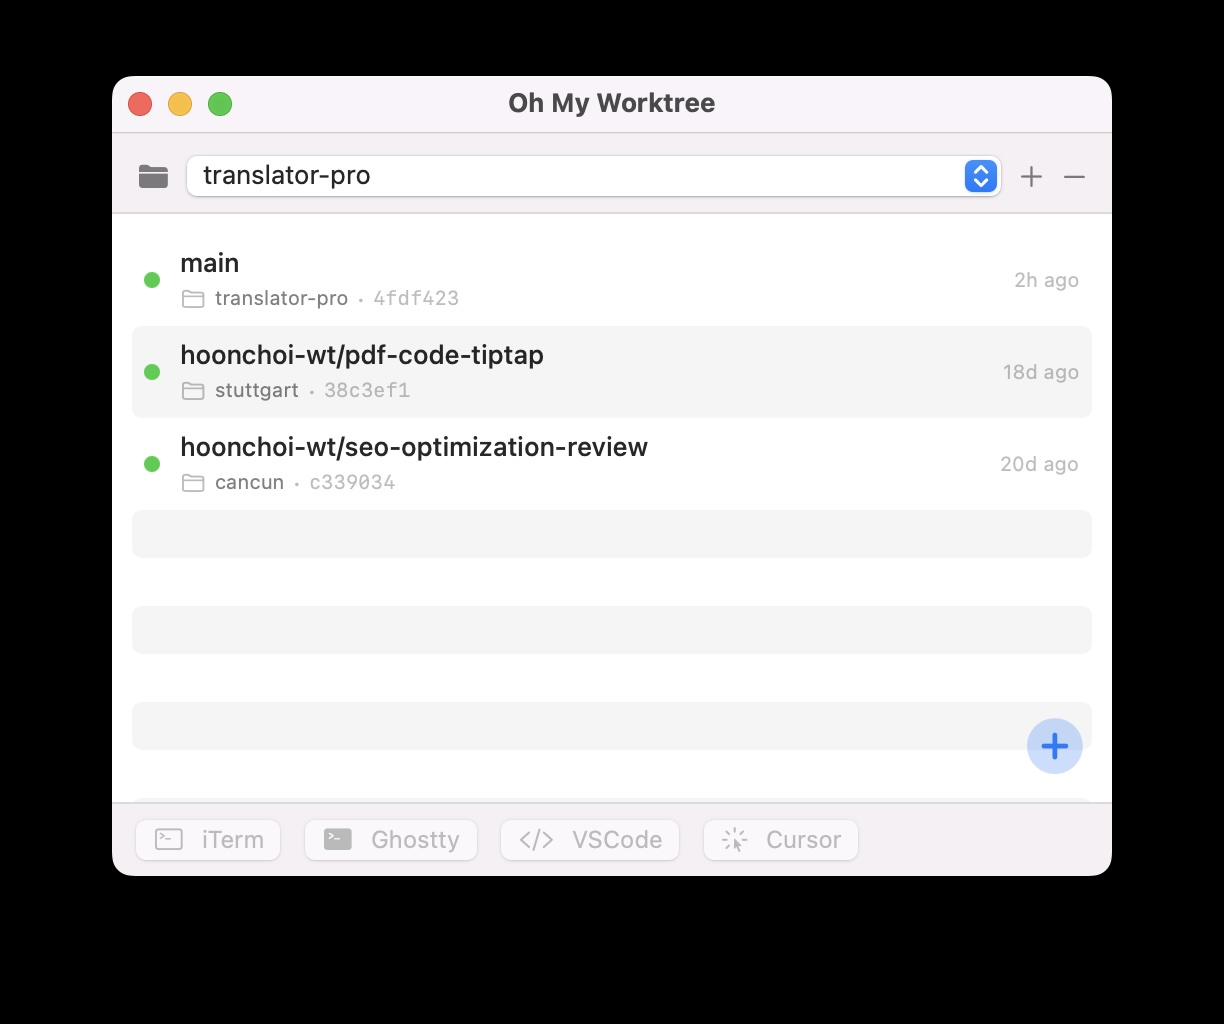
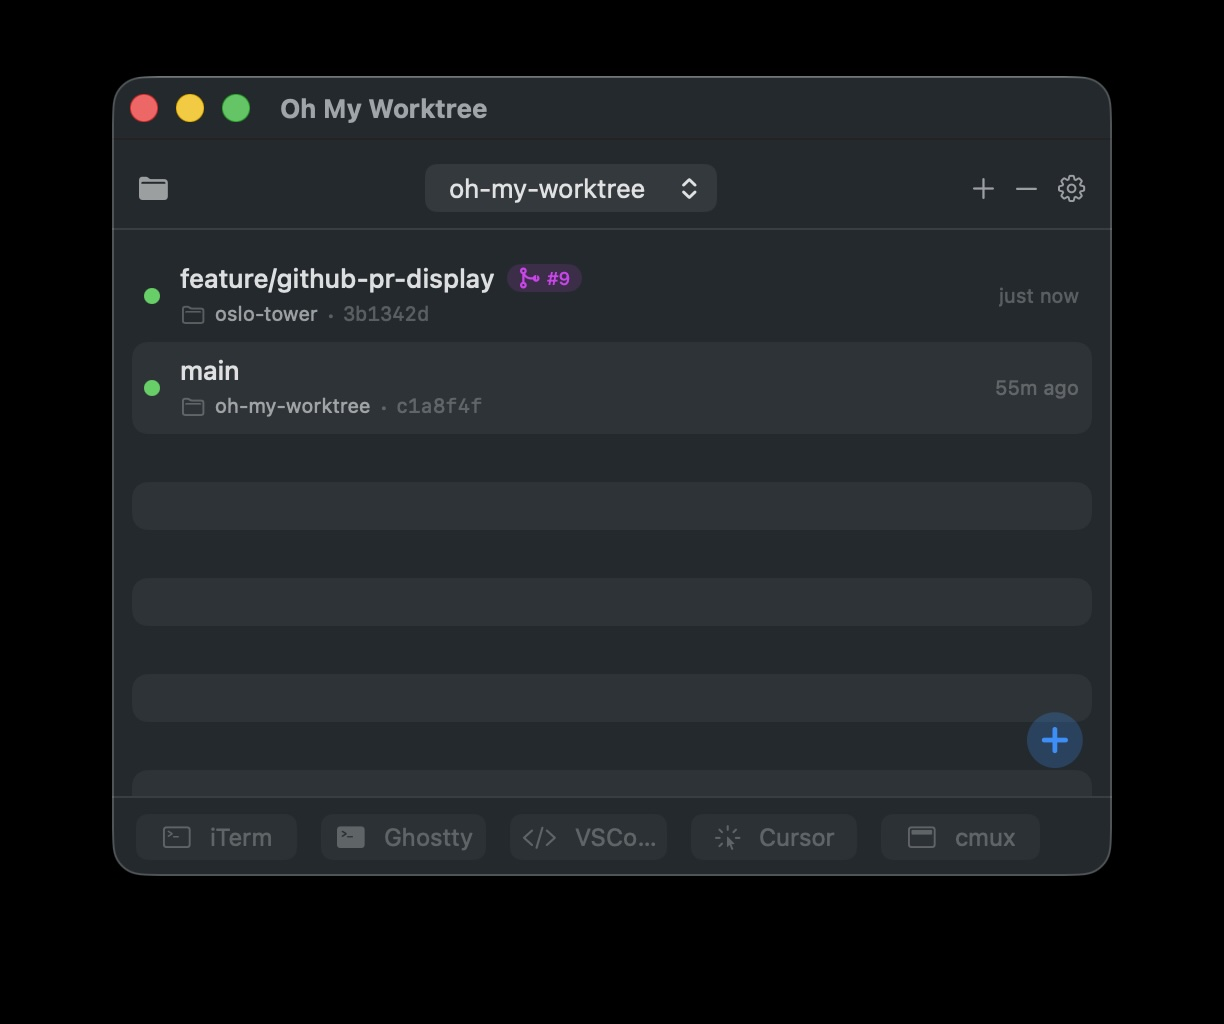
Update README with new features and refresh screenshots
Add documentation for GitHub PR integration, cmux terminal support,
.worktreeinclude pattern-based file copying, git pull, and dynamic
activation policy. Update architecture section to reflect current
services. Refresh all screenshots and add worktree submenu screenshot.

diff --git a/README.md b/README.md
@@ -1,8 +1,6 @@
 # Oh My Worktree
 
-> **Looking for an icon designer!** We need a macOS app icon for Oh My Worktree.
-
-A native macOS utility for managing Git worktrees with speed and elegance.
+A native macOS menu bar app for managing Git worktrees with speed and elegance.
 
 <p align="center">
   <img src="docs/screenshots/main-window.jpg" width="500" alt="Main Window" />
@@ -10,17 +8,19 @@ A native macOS utility for managing Git worktrees with speed and elegance.
 
 ## Features
 
-- **Repository Management** - Register bare Git repositories and switch between them via dropdown menu
-- **Worktree Management** - List, create, and delete worktrees with a clean interface
-- **Smart Naming** - Automatic random name generation (e.g., `tokyo-lunch`, `bright-ocean`) to keep branch names organized
-- **External Tool Integration** - Open worktrees directly in iTerm, Ghostty, VSCode, or Cursor with one click
-- **Menu Bar Mode** - Resident NSStatusItem showing current repo and worktree with quick-access dropdown menu
-- **Activity Tracking** - View relative last activity time per worktree (e.g., "2h ago", "7d ago", "just now")
-- **Auto .env Copy** - Automatically copies `.env` files from the repository root when creating new worktrees, with global and per-repo settings
-- **Launch at Login** - Start automatically when you log in, configurable in Settings
-- **Real-Time Branch Detection** - Menu bar title updates instantly when branches change externally via git HEAD file monitoring
-- **Auto-Update** - Built-in update checking and installation via Sparkle framework, configurable in Settings
-- **Lightweight Design** - Compact window (500x400), runs as accessory app without Dock icon, lives in menu bar
+- **Repository Management** — Register bare Git repositories and switch between them via dropdown menu
+- **Worktree Management** — List, create, and delete worktrees with a clean interface
+- **Smart Naming** — Automatic random name generation (e.g., `tokyo-lunch`, `bright-ocean`) to keep branch names organized
+- **GitHub PR Integration** — Shows PR status badges (#number) next to branch names; click to open PR in browser (requires [`gh` CLI](https://cli.github.com/))
+- **External Tool Integration** — Open worktrees directly in iTerm, Ghostty, cmux, VSCode, or Cursor with one click
+- **Menu Bar Mode** — Lives in the menu bar with quick-access dropdown for repositories, worktrees, and tool launching
+- **`.worktreeinclude` Patterns** — Flexible glob-based file copying when creating new worktrees (falls back to `.env*` files)
+- **Activity Tracking** — View relative last activity time per worktree (e.g., "2h ago", "7d ago", "just now")
+- **Git Pull** — Pull latest changes for any worktree with result summary and conflict detection
+- **Real-Time Branch Detection** — Menu bar title updates instantly when branches change externally
+- **Launch at Login** — Start automatically when you log in, configurable in Settings
+- **Auto-Update** — Built-in Sparkle update framework, configurable in Settings
+- **Lightweight Design** — Runs as a menu bar app without Dock icon; shows in Dock only when a window is open
 
 ## Requirements
 
@@ -67,7 +67,7 @@ Use the **+** button to add a bare Git repository. Select it from the dropdown t
 
 ### 2. Create & Manage Worktrees
 
-Click **+** to create a worktree with an auto-generated name (e.g., `tokyo-lunch`, `bright-ocean`). Each worktree shows its branch, path, and last activity time.
+Click **+** to create a worktree with an auto-generated name (e.g., `tokyo-lunch`, `bright-ocean`). Each worktree shows its branch, PR status, path, and last activity time.
 
 ### 3. Open in Your Favorite Tool
 
@@ -77,29 +77,63 @@ Select a worktree and open it directly in your preferred tool:
 |------|-------------|
 | **iTerm** | Opens a new terminal window at the worktree path |
 | **Ghostty** | Opens Ghostty terminal at the worktree path |
+| **cmux** | Opens a cmux workspace at the worktree path |
 | **VSCode** | Opens VS Code in the worktree directory |
 | **Cursor** | Opens Cursor IDE in the worktree directory |
 
+Tools are auto-detected — only installed tools appear in the menu.
+
 ### 4. Menu Bar Quick Access
 
-Access everything from the menu bar without opening the main window. The icon shows your current `{repo}/{worktree}` selection.
+Access everything from the menu bar without opening the main window. The menu bar icon shows your current `{repo}/{worktree}` selection.
 
 <p align="center">
   <img src="docs/screenshots/menubar-dropdown.jpg" width="500" alt="Menu Bar Dropdown" />
 </p>
 
 - Click the menu bar icon to see repositories and worktrees
-- Hover a worktree for tool submenu (iTerm / Ghostty / VSCode / Cursor / Copy Path / Finder)
+- Hover a worktree for the tool submenu (iTerm / Ghostty / cmux / VSCode / Cursor / Copy Path / Finder)
+- Open associated pull requests directly from the submenu
 - Create new worktrees directly from the menu
 - Close the main window — the app keeps running in the menu bar
 
-### 5. Settings
+### 5. GitHub PR Integration
+
+If [`gh` CLI](https://cli.github.com/) is installed and authenticated, Oh My Worktree automatically fetches PR data for each worktree branch:
+
+- A colored badge appears next to the branch name (green = open, purple = merged, red = closed)
+- Click the badge to open the pull request in your browser
+- PR numbers also appear in the menu bar dropdown
+- No configuration needed — gracefully hidden when `gh` is not available
+
+### 6. `.worktreeinclude` Patterns
+
+Control which files are copied into new worktrees by creating a `.worktreeinclude` file in your repository root:
+
+```
+# Copy environment files
+.env*
+*.local
+
+# Copy specific config paths
+config/local/**
+**/settings.local.json
+```
+
+- One glob pattern per line, `#` comments and blank lines are ignored
+- Simple patterns (e.g., `.env*`) match filenames anywhere in the tree
+- Path patterns (e.g., `config/local/**`) match against relative paths
+- `**/` prefix patterns match any path suffix
+- If no `.worktreeinclude` file exists, all `.env*` files are copied by default
+- An empty `.worktreeinclude` file means "copy nothing"
+
+### 7. Settings
 
 Open **Settings** (`⌘,`) from the menu bar to configure global preferences. Use the **⚙** button next to the repository selector for per-repo overrides.
 
 | Setting | Scope | Default |
 |---------|-------|---------|
-| **Copy .env files** | Global / Per-repo | On |
+| **Copy files to new worktrees** | Global / Per-repo | On |
 | **Launch at Login** | Global | Off |
 | **Automatically check for updates** | Global | On |
 
@@ -108,34 +142,34 @@ Open **Settings** (`⌘,`) from the menu bar to configure global preferences. Us
 Oh My Worktree uses a clean MVVM architecture with clear separation of concerns:
 
 ### Models
-- **Repository** - Represents a registered bare Git repository with metadata (name, path, access times)
-- **Worktree** - Represents a Git worktree with branch info, commit hash, and activity tracking
-- **AppSettings** - Persists user preferences and registered repositories
+- **Repository** — Registered bare Git repository with metadata (name, path, access times)
+- **Worktree** — Git worktree with branch info, commit hash, and activity tracking
+- **PullRequestInfo** — GitHub PR data (number, URL, state) fetched via `gh` CLI
+- **AppSettings** — User preferences and registered repositories
 
 ### ViewModels
-- **RepositoryListViewModel** - Manages repository selection and persistence
-- **WorktreeListViewModel** - Handles worktree listing, creation, and deletion
+- **RepositoryListViewModel** — Manages repository selection and persistence
+- **WorktreeListViewModel** — Handles worktree listing, creation, deletion, and PR data fetching
 
 ### Views
-- **ContentView** - Main application window layout
-- **RepositorySelectorView** - Repository dropdown and selection UI
-- **WorktreeListView** - Displays list of worktrees with actions
-- **WorktreeRowView** - Individual worktree row with metadata and buttons
-- **ActionButtonsView** - External tool launch buttons
-- **SettingsView** - Global app settings (`.env` copy, Launch at Login, auto-update)
-- **RepositorySettingsView** - Per-repo settings override popover
+- **ContentView** — Main application window layout
+- **RepositorySelectorView** — Repository dropdown and selection UI
+- **WorktreeListView** — Displays list of worktrees with context menu actions
+- **WorktreeRowView** — Individual worktree row with PR badge, metadata, and action buttons
+- **SettingsView** — Global app settings
+- **RepositorySettingsView** — Per-repo settings override popover
 
 ### Services
-- **GitCommandExecutor** - Executes Git commands asynchronously via `Process`
-- **WorktreeManager** - Orchestrates worktree creation and deletion via Git CLI
-- **ExternalToolLauncher** - Handles opening worktrees in external tools (iTerm, Ghostty, VSCode, Cursor)
-- **RandomNameGenerator** - Generates unique, memorable worktree names
-- **EnvFileCopier** - Copies `.env*` files from repository root to new worktrees
-- **RepositoryStore** - Persists repositories and settings to disk (JSON + UserDefaults)
-- **UpdaterManager** - Sparkle auto-update controller wrapper with SwiftUI reactivity
-
-### App Delegate
-- **AppDelegate** - Manages NSStatusItem (menu bar icon) and window lifecycle
+- **GitCommandExecutor** — Low-level `Process`-based Git CLI wrapper
+- **WorktreeManager** — Worktree creation, deletion, and git pull operations
+- **ExternalToolLauncher** — Opens worktrees in external tools (iTerm, Ghostty, cmux, VSCode, Cursor)
+- **PullRequestService** — Fetches GitHub PR data via `gh` CLI
+- **RandomNameGenerator** — Generates unique, memorable worktree names
+- **WorktreeFileCopier** — Copies files to new worktrees using `.worktreeinclude` patterns
+- **RepositoryStore** — Actor-based JSON persistence with atomic writes and backup recovery
+- **GitHeadMonitor** — `DispatchSource` file watcher on `.git/HEAD` for real-time branch detection
+- **WindowObserver** — Dynamic activation policy toggling for proper window focus management
+- **UpdaterManager** — Sparkle auto-update controller wrapper
 
 ## Contributing
 
@@ -151,4 +185,4 @@ Licensed under the MIT License. See [LICENSE](LICENSE) for details.
 
 ---
 
-**Oh My Worktree** - Because managing 12 worktrees shouldn't require 12 terminal windows.
+**Oh My Worktree** — Because managing 12 worktrees shouldn't require 12 terminal windows.
